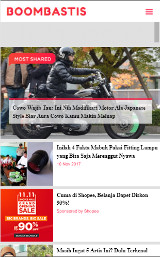
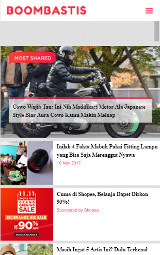
intro

diff --git a/portofolio.html b/portofolio.html
@@ -69,12 +69,12 @@ body{font-family: sans-serif;}
 	<amp-carousel height="260"  layout="fixed-height"  type="slides" controls loop data-next-button-aria-label="Go to next slide" data-previous-button-aria-label="Go to previous slide">
 		<div>
 			<div class="clearfix">
-				<div class="col-6 sm-col-6 md-col-6 pr1">
-					<amp-img width="160" height="250" layout="responsive" alt="boombastis.com" class="my1" src="img/boombastis.jpg" alt="boombastis.com" attribution="https://boombastis.com" >
+				<div class="col col-6 sm-col-6 md-col-6 pr1">
+					<a href="https://boombastis.com" target="_blank" rel="noindex,nofollow,noopener"><amp-img width="160" height="250" layout="responsive" alt="boombastis.com" class="my1" src="img/boombastis.jpg" alt="boombastis.com" attribution="https://boombastis.com" >
 			      <noscript><img src="/img/boombastis.jpg" width="100%" height="auto" alt="boombastis.com" /></noscript>
-		  		</amp-img>
+		  		</amp-img></a>
 	  		</div>
-	  		<div class="col-6 sm-col-6 md-col-6 pl1"> 
+	  		<div class="col col-6 sm-col-6 md-col-6 pl1"> 
 		  		<amp-img width="160" height="250" layout="responsive" alt="travelingyuk.com" class="my1" src="img/travelingyuk.jpg" alt="travelingyuk.com" attribution="https://travelingyuk.com" >
 			      <noscript><img src="/img/travelingyuk.jpg" width="100%" height="auto" alt="travelingyuk.com" /></noscript>
 		  		</amp-img> 
@@ -83,12 +83,12 @@ body{font-family: sans-serif;}
 		</div>
 		<div>
 			<div class="clearfix">
-				<div class="col-6 sm-col-6 md-col-6 pr1"> 
+				<div class="col col-6 sm-col-6 md-col-6 pr1"> 
 		  		<amp-img width="160" height="250" layout="responsive" alt="selebupdate.com" class="my1" src="img/selebupdate.jpg" alt="selebupdate.com" attribution="https://selebupdate.com" >
 			      <noscript><img src="/img/selebupdate.jpg" width="100%" height="auto" alt="selebupdate.com" /></noscript>
 		  		</amp-img>
 	  		</div>
-	  		<div class="col-6 sm-col-6 md-col-6 pl1"> 
+	  		<div class="col col-6 sm-col-6 md-col-6 pl1"> 
 		  		<amp-img width="160" height="250" layout="responsive" alt="amaliaridwan.com" class="my1" src="img/amaliaridwan.jpg" alt="amaliaridwan.com" attribution="https://amaliaridwan.com" >
 			      <noscript><img src="/img/amaliaridwan.jpg" width="100%" height="auto" alt="amaliaridwan.com" /></noscript>
 		  		</amp-img>
